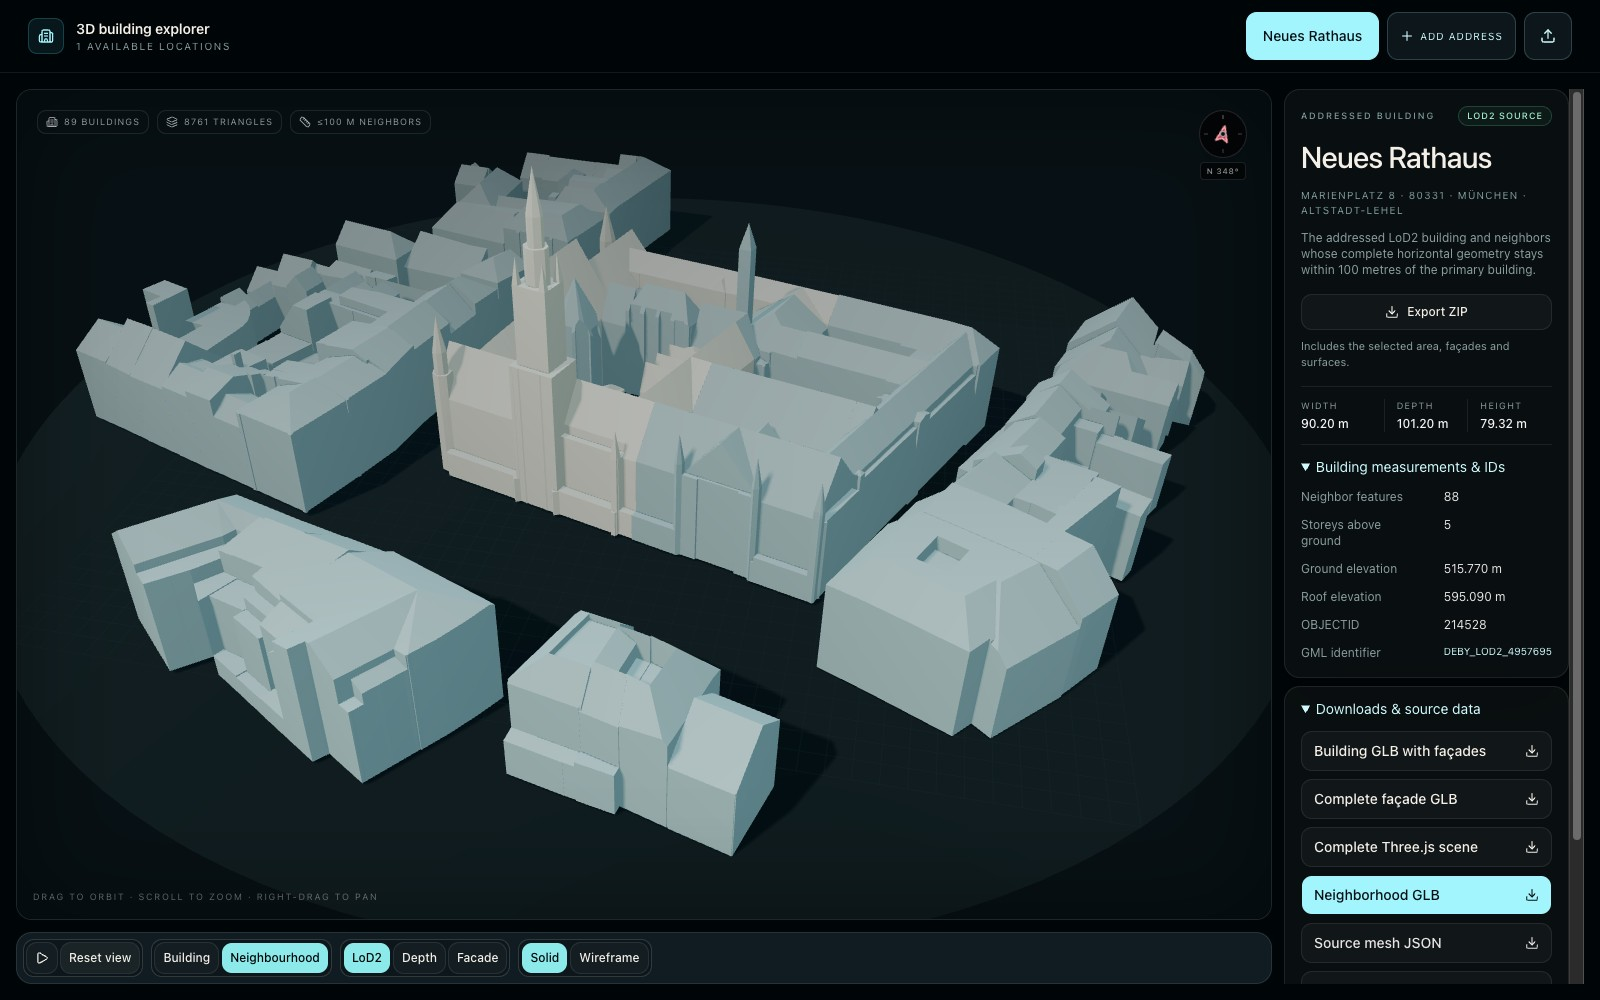
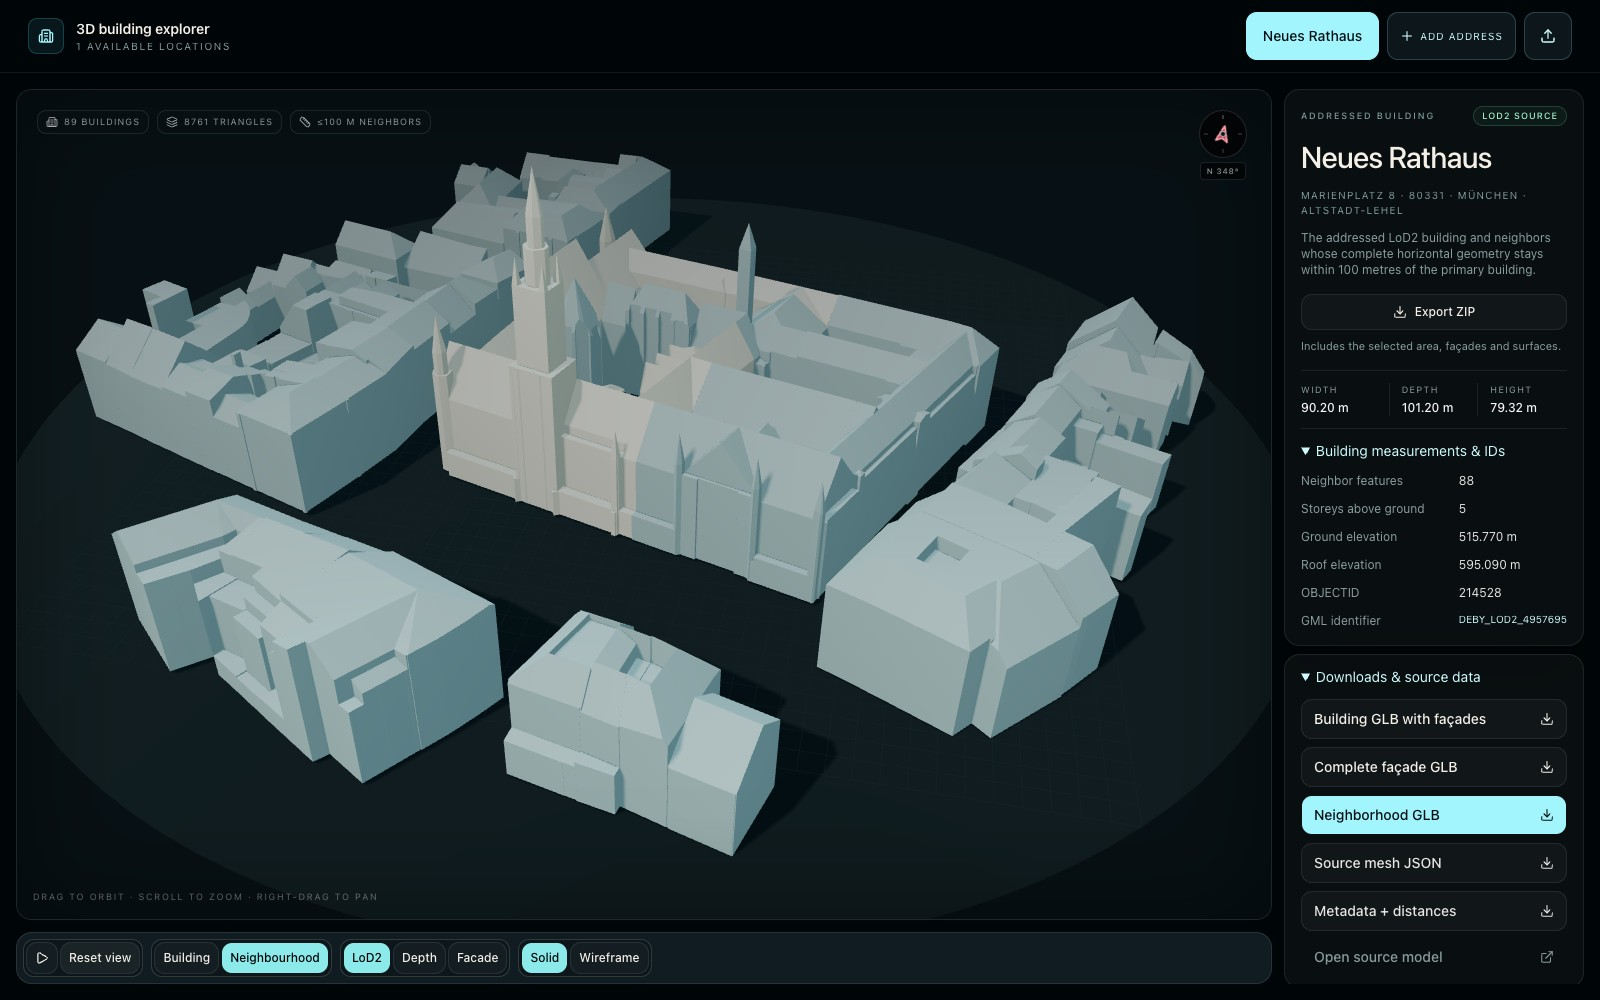
Hide Blender and Three.js downloads and ignore scene JSON exports

Changed region(s): [[0.8125, 0.093, 1.0, 0.992], [0.875, 0.31, 0.9062, 0.341], [0.8125, 0.341, 0.8438, 0.372]]

diff --git a/website/src/App.tsx b/website/src/App.tsx
@@ -261,13 +261,13 @@ export default function App() {
     } finally { setSharing(''); }
   };
 
-  const downloadCompleteScene = async (format: 'glb' | 'three' | 'blend') => {
+  const downloadCompleteScene = async () => {
     setShareOperation('export');
-    setSharing(`Building complete ${format === 'three' ? 'Three.js' : format === 'blend' ? 'Blender' : 'GLB'} scene…`);
+    setSharing('Building complete GLB scene…');
     setShareMessage('');
     try {
       const { exportCompleteScene } = await import('@/lib/address-sharing');
-      await exportCompleteScene(place, format);
+      await exportCompleteScene(place, 'glb');
       setShareMessage('Complete scene includes façades, neighbours and mapped surroundings.');
     } catch (error) { setShareMessage(error instanceof Error ? error.message : 'Scene export failed'); }
     finally { setSharing(''); }
@@ -659,9 +659,7 @@ export default function App() {
                 Building GLB with façades <Download className="size-3.5" />
               </button>}
               {place.areaSurfacePath && <>
-                <button type="button" disabled={Boolean(sharing)} onClick={() => void downloadCompleteScene('glb')} className={cn(buttonVariants({ variant: 'outline' }), 'h-10 justify-between px-3')}>Complete façade GLB <Download className="size-3.5" /></button>
-                <button type="button" disabled={Boolean(sharing)} onClick={() => void downloadCompleteScene('three')} className={cn(buttonVariants({ variant: 'outline' }), 'h-10 justify-between px-3')}>Complete Three.js scene <Download className="size-3.5" /></button>
-                {(blenderExportAvailable || place.completeBlendPath) && <button type="button" disabled={Boolean(sharing)} onClick={() => void downloadCompleteScene('blend')} className={cn(buttonVariants({ variant: 'outline' }), 'h-10 justify-between px-3')}>Complete Blender scene <Download className="size-3.5" /></button>}
+                <button type="button" disabled={Boolean(sharing)} onClick={() => void downloadCompleteScene()} className={cn(buttonVariants({ variant: 'outline' }), 'h-10 justify-between px-3')}>Complete façade GLB <Download className="size-3.5" /></button>
               </>}
               <a
                 href={place.modelPath}

diff --git a/README.md b/README.md
@@ -64,7 +64,7 @@ source-mesh JSON and metadata downloads retain the original LoD2 source.
 
 Every download filename includes the address name, area size and local timestamp
 (`YYYY-MM-DD_HH-mm-ss`). Model and JSON downloads also identify their content,
-for example `Neues-Rathaus-100m-complete-facade-2026-09-07_11-30-00.blend`.
+for example `Neues-Rathaus-100m-complete-facade-2026-09-07_11-30-00.glb`.
 The timestamp is captured when you click the export or download control.
 
 **Complete façade GLB** exports the entire Facade neighbourhood, including all
@@ -73,29 +73,20 @@ furniture. It always exports the complete scene, regardless of the current scope
 wireframe or depth display. Import this standalone GLB into Blender with
 **File → Import → glTF 2.0**.
 
-**Complete Three.js scene** downloads an ObjectLoader-compatible `.three.json`
-with the same baked meshes, materials, transforms, source IDs and reference notes:
-
-```js
-const scene = await new THREE.ObjectLoader().loadAsync('address-complete-facade.three.json');
-// Add your viewer's camera and lighting, then render the loaded scene.
-```
-
-On the local server, **Complete Blender scene** also downloads a native `.blend`
-when Blender is installed. Conversion runs in a fresh background process and
-removes its temporary files afterward. The server checks the default macOS app
-path; set `BLENDER_PATH` to another Blender executable before starting it if needed.
-Hosted exports run entirely in the browser; native Blender conversion is local
-only. These scene exports are for 3D applications. Use **Export ZIP / Import ZIP**
-for lossless address exchange within Munich3D, including the original source data
-and complete reconstruction recipe.
+Native Blender scenes are included in local **Export ZIP** downloads when Blender
+is installed. Conversion runs in a fresh background process and removes its
+temporary files afterward. The server checks the default macOS app path; set
+`BLENDER_PATH` to another Blender executable before starting it if needed.
+Hosted exports run entirely in the browser and preserve imported Blender
+attachments. Standalone Blender and Three.js JSON download buttons are not shown.
+Generated `*.three.json` files are Git-ignored and stay local.
 
 Links can select a model with `?model=MODEL_ID`; legacy `?area=MODEL_ID` also
 selects it. Add `&view=reconstruction` to select Facade on initial load.
 
 ### Screenshots
 
-Refreshed on **7 September 2026** from the live homepage at **1600 × 1000**,
+Refreshed on **7 September 2026** from a public-only preview at **1600 × 1000**,
 using a fresh browser session with only the public Rathaus 100 m sample. Rotation
 was paused for consistent captures. Private addresses and imported private data
 are excluded. Click an image to inspect it at full size; facade details are
@@ -140,8 +131,7 @@ external reference photos themselves are not bundled.
 On localhost with Blender available, **Export ZIP** also includes
 **`complete-facade.blend`**, containing the full neighbourhood and modeled façade
 and surface details. Import preserves this file unchanged, including on the hosted
-site, and subsequent ZIP exports retain it. The separate **Complete Blender scene**
-button can download the stored attachment directly. The hosted site cannot create
+site, and subsequent ZIP exports retain it. The hosted site cannot create
 new native Blender files; generate the ZIP locally to include one.
 
 Send the ZIP to your friend. They can open [Munich3D](https://glaubi.net/munich3d/)

diff --git a/AGENTS.md b/AGENTS.md
@@ -125,6 +125,9 @@ setup, extraction commands, asset layout and runtime architecture.
   browser data and must survive reload/re-export byte-for-byte on both runtimes.
   Never execute an imported Blender attachment. Hosted exports preserve existing
   attachments but do not invoke a server or Blender to create them.
+- Keep `*.three.json` exports Git-ignored. Do not expose standalone Blender or
+  Three.js JSON download buttons; retain the complete façade GLB download and
+  native Blender attachment in local ZIP exports.
 - Every download filename includes the address name, area size and local download
   timestamp; identify the content for non-ZIP downloads. Use the shared filename
   helper for ZIP, GLB, Blender, Three.js, source-mesh and metadata downloads.
